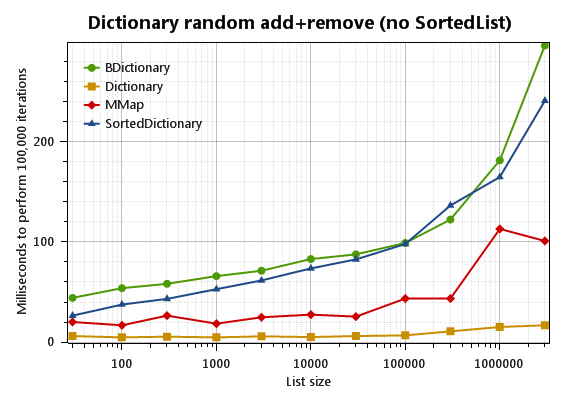
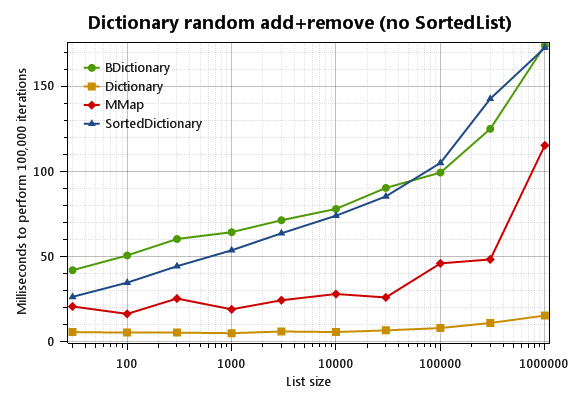
Edited recent articles

diff --git a/collections/alists-part3.md b/collections/alists-part3.md
@@ -46,7 +46,7 @@ _totalCount = 1000
 
 From the outside it appears to be a list of 1000 items, but in reality there are only three.
 
-This kind of list may resemble a `SortedDictionary<int,T>` but there is a big difference: you can _insert and remove_ ranges of indexes, which efficiently "shifts" the indexes of all items above the affected index. For example, if I add one million real items to a `SparseAList<T>`, I can do `list.InsertSpace(0, 1000)` and this will increase the index of all existing items by 1000 (in O(log N) time).
+This kind of list may resemble a `SortedDictionary<int,T>` but there is a big difference: you can _insert and remove_ ranges of indexes, which efficiently "shifts" the indexes of all items above the affected index. For example, if I add one million real items to a `SparseAList<T>`, I can do `list.InsertSpace(0, 1000)` and this will increase the index of all one million items by 1000 (in O(log N) time).
 
 `SparseAList<T>` implements my `ISparseListSource<T>` and `ISparseList<T>` interfaces. Compared to a normal list, a sparse list offers the following additional methods:
 
@@ -160,7 +160,7 @@ This kind of list may resemble a `SortedDictionary<int,T>` but there is a big di
 
 ## `SparseAList<T>` for syntax highlighting
 
-The first version of my syntax highlighter simply kept track of the lexer state at the beginning of each line. This basically worked, but there was a challenge or two [I forgot the details because it's been many months since I worked on it], and it didn't allow me to efficiently add "higher-level" syntax highlighting. I wanted to offer syntax highlighting not just of tokens, but also of higher-level elements (using C# as an example, imagine highlighting data types and method names).
+The first version of my syntax highlighter for [LES](https://github.com/qwertie/LoycCore/wiki/Loyc-Expression-Syntax) simply kept track of the lexer state at the beginning of each line. This basically worked, but there was a challenge or two [I forgot the details because it's been many months since I worked on it], and it didn't allow me to efficiently add "higher-level" syntax highlighting. I wanted to offer syntax highlighting not just of tokens, but also of higher-level elements (using C# as an example, imagine highlighting data types and method names).
 
 The simplest way to do this is to parse the entire file, which is slow. I did not (and don't) know how to achieve incremental parsing, but I felt that I could at least achieve incremental _lexing_, which would speed up the parsing process because lexical analysis tends to account for around half of total parsing time. My idea is that I would build a list of all non-space tokens in the file and the location where each token starts. Then, when the user types stuff, I would re-lex a small region starting before the edit location, in real time, an this would be a very fast operation (most of the time, anyway). The parser would still have to reprocess the entire file, but it would run on a timer, waiting at least one second or so between each parse. This parser would run on a background thread and could operate on a frozen version of the token list in case it changes on the other thread (remember, `AList` supports fast cloning).
 
@@ -195,7 +195,7 @@ But, this is really a story for another article. Remind me to write one...
 
 ## Benchmarks
 
-I finally got around to doing a few simple benchmarks on a new workstation PC. Fair warning, I only tested `AList` and `BDictionary`, not any of the others like `SparseAList` or `BMultiMap`.
+I finally got around to doing a few simple `AList` benchmarks on a new workstation PC. Fair warning, I only tested `AList` and `BDictionary`, not any of the others like `SparseAList` or `BMultiMap`.
 
 The first test scenario is this:
 
@@ -209,7 +209,7 @@ First the good news: `AList<T>` has dramatically better performance than `List<T
 ![Results](bm-insert-at-random-indexes.png)
 ![Results](bm-remove-at-random-indexes.png)
 
-What's `DList<T>`? It's a direct competitor to the standard `List<T>`, and a simpler alternative to `AList<T>`. I wrote a [separate article about the DList](http://core.loyc.net/collections/dlist.html).
+What's `DList<T>`? It's a direct competitor to the standard `List<T>`, and a simpler alternative to `AList<T>`. I wrote a [separate article about the DList](dlist.html).
 
 The raw timings for a million-item list are
 
@@ -231,7 +231,7 @@ In fact, for small lists (under 100 items), `List<T>` is about twice as fast.
 
 ![Add-at-end benchmark](bm-insert-at-end.png)
 
-This scenario is to start with a `IList<long>` of a certain size and just add 100,000 more items. `AList<T>` just sucks at that, at least compared to `List<T>` and `DList<T>`, both of which usually complete the task in one millisecond or less (why the sudden "slowness" of `DList<T>` at 3 million items? Probably at some point during the 100,000 iterations, the `DList` had to enlarge its internal array of 3 million items.)
+This scenario is to start with a `IList<long>` of a certain size and just add 100,000 more items. `AList<T>` just sucks at that, at least compared to `List<T>` and `DList<T>`, both of which usually complete the task in one millisecond or less.
 
 I also the tested the speed of
 
@@ -248,12 +248,12 @@ I also the tested the speed of
 		for (int c = 0; c < Cycles; c++)
 			avg = list.Average(); // LINQ scans the collection with `IEnumerator`
 
-Here, `Cycles` is chosen so that `Cycles * list.Count = 10_000_000` (exception: `Cycles = 3` at 3 million items). 
+Here, `Cycles` is chosen so that `Cycles * list.Count = 10_000_000`.
 
 `AList<T>` is a more complex data structure, so it is traversed more slowly than `List<T>` and `DList<T>`.
 
 ![Scan results](bm-scan-by-IEnumerator.png)
-![Scan results](bm-scan-by-[index].png)
+![Scan results](bm-scan-by-index.png)
 
 Notice that the `IEnumerator` of `AList` has a constant speed while the `[indexer]` of `AList` gets slower for large lists. That's because the indexer requires O(log N) time while `IEnumerator<T>.MoveNext` is an O(1) operation. However, the `AList` enumerator tends to be slower for short lists, maybe because the enumerator needs more time to initialize (except for very short lists that contain only a leaf node, the enumerator allocates a small array--a traversal stack--when enumeration starts.)
 
@@ -263,7 +263,14 @@ I noticed that `DList<T>` wasn't getting as much of a performance boost through 
 
 ### Dictionary benchmarks
 
-I did a single simple benchmark for five kinds of `<long, int>` dictionaries (`Dictionary`, `MMap`, `BDictionary`, `SortedDictionary` and `SortedList`). The results are clear:
+I did a single simple benchmark for five kinds of `<long, int>` dictionaries (`Dictionary`, `MMap`, `BDictionary`, `SortedDictionary` and `SortedList`). The test setup was:
+
+1. Create a dictionary with a sequence of integers starting at zero, where each new integer equals the last integer plus a random number between 50 and 150. Record the largest integer.
+2. Start timer.
+3. 100,000 times, pick an integer at random between 0 and the largest integer. Insert this integer into the list, and then (if the list size increased) remove it again.
+4. Measure time.
+
+The results are clear:
 
 ![Results](bm-dictionary-random-add+remove.png)
 

diff --git a/collections/internal-list.md b/collections/internal-list.md
@@ -32,12 +32,12 @@ So `List<T>` requires six additional words of memory compared to an array (I mea
 public T this[int index]
 {
     get {
-        if (index >= _size)
+        if ((uint)index >= (uint)_size)
             ThrowHelper.ThrowArgumentOutOfRangeException();
         return _items[index];
     }
     set {
-        if (index >= _size)
+        if ((uint)index >= (uint)_size)
             ThrowHelper.ThrowArgumentOutOfRangeException();
         _items[index] = value;
         _version++;
@@ -45,7 +45,7 @@ public T this[int index]
 }
 ~~~
 
-Note that the `_items[index]` operation implicitly contains a range check: the CLR performs a check equivalent to `(uint)index < (uint)_items.Length` before it actually reads from an array or writes to it. So there are actually two range checks here. The JIT usually does not know that `_size < _items.Length` (and besides, the `index >= _size` check does not verify that `index >= 0`) so it cannot remove the second check based on the result of the first check.
+Note that the `_items[index]` operation implicitly contains a range check: the CLR performs a check equivalent to `(uint)index < (uint)_items.Length` before it actually reads from an array or writes to it. So there are actually two range checks here. The JIT usually does not know that `_size < _items.Length` so it cannot remove the second check based on the result of the first check.
 
 ### The downside to `T[]`
 
@@ -75,9 +75,11 @@ and then you might write a bunch of code to do the things that `List<T>` already
         Array.Copy(_array, a, _count);
     }
 
-Of course, this road leads to madness. Luckily, there's no need to ever write code like this: just use `InternalList<T>` instead!
+Of course, this road leads to madness. Luckily, you never need to write code like this: just use `InternalList<T>` instead!
 
 ## Introducing InternalList
+
+`InternalList<T>` is a drop-in substitute for `List<T>` defined like this:
 
     [Serializable]
     public struct InternalList<T> : IListAndListSource<T>, 
@@ -99,6 +101,7 @@ Of course, this road leads to madness. Luckily, there's no need to ever write co
         public void Resize(int newSize, bool allowReduceCapacity = true) {...}
         public void Add(T item) {...}
         ...
+        ...
     }
 
 To eliminate the extra memory required by `List<T>`, InternalList is a `struct` rather a `class`; and for maximum performance, it asserts rather than throwing an exception when an incorrect array index is used, so that Release builds (where `Debug.Assert` disappears) run as fast as possible.
@@ -110,17 +113,17 @@ To eliminate the extra memory required by `List<T>`, InternalList is a `struct` 
     // error CS1612: Cannot modify the return value of 'List<Point>.this[int]' because it is not a variable
     pts[0].X = 5;
 
-But if `pts` is an `InternalList` then you can write `pts.InternalArray[0].X = 5;`
+But if `pts` is an `InternalList` then you can write `pts.InternalArray[0].X = 5;`.
 
 `InternalList<T>` has other things that `List<T>` doesn't, such as a `Resize()` method (and an equivalent setter for `Count`), and a handy `Last` property to get or set the last item.
 
 But it should be understood that `InternalList` is only meant for rare cases where you need better performance than `List<T>`. It does have major disadvantages:
 
-1. You must not write `new InternalList<T>()` because C# does not support default constructors and `InternalList<T>` requires non-null initialization; methods such as `Add()`, `Insert()` and `Resize()` assume `_array` is not null. The correct initialization is `InternalList<T> list = InternalList<T>.Empty;`
+1. You must not write `new InternalList<T>()` because C# does not support `struct` default constructors and `InternalList<T>` requires non-null initialization; methods such as `Add()`, `Insert()` and `Resize()` assume `_array` is not null. The correct initialization is `InternalList<T> list = InternalList<T>.Empty;`
 
 2. Passing this structure by value is dangerous because changes to a copy of the structure may or may not be reflected in the original list. In particular the `_count` of the original list won't change but the contents of `_array` _may_ change. It's best not to pass it around at all, but if you must pass it, pass it by reference. This also implies that an `InternalList<T>` should not be exposed by any `public` API, and storing `InternalList<T>` inside another collection (e.g. `Dictionary<object, InternalList<T>>` can be done but must be done carefully to avoid code that _compiles_ but doesn't work as intended.
 
-Again, the fundamental problem is that when you pass `InternalList` by value, a copy of the `_count` and `_array` variables is made. Changes to those variables do not affect the other copies, but changes to the _elements_ of `_array` _do_ affect other copies. If you want to return an internal list from a public API you can cast it to `IList<T>` or `IReadOnlyList<T>`, but be aware that future changes made to the `InternalList` by your code may not be reflected properly in client code, and vice versa. 
+Again, the fundamental problem is that when you pass `InternalList` by value, a copy of the `_count` and `_array` variables is made. Changes to those variables do not affect the other copies, but changes to the _elements_ of `_array` _do_ affect other copies (incidentally, this is similar to the mutation behavior of [slices in D](http://dlang.org/d-array-article.html)). If you want to return an internal list from a public API you can cast it to `IList<T>` or `IReadOnlyList<T>`, but be aware that future changes made to the `InternalList` by your code may not be seen properly by clients using the `IList<T>`, and vice versa.
 
 Finally, alongside `InternalList<T>`, there is a `static class InternalList` that has some static methods (`CopyToNewArray`, `Insert`, `RemoveAt`, `Move` to help manage raw arrays. Most methods of `InternalList<T>` simply call methods of `InternalList`.
 

diff --git a/collections/dlist.md b/collections/dlist.md
@@ -5,7 +5,7 @@ layout: article
 
 ## Introduction
 
-Creating the `AList<T>` data structures for my [list trifecta series](alists-part1.html) must have taken hundreds of hours. The `DList<T>` is a vastly simpler beast, but may be able to boost your insert/remove speed a lot without adversely affecting the performance of other operations such as the indexer.
+Creating the `AList<T>` data structures for my [list trifecta series](alists-part1.html) must have taken hundreds of hours. The `DList<T>` is a vastly simpler beast, but in certain cases will boost your insert/remove speed a lot, without adversely affecting the performance of other operations such as the indexer.
 
 `DList<T>` is a "circular buffer". A circular buffer is a region of memory organized so that you can efficiently add or remove items at both ends, and is commonly used to implement queues (it's called a "circular queue").
 
@@ -76,10 +76,19 @@ Leaf nodes of `AList`s contain a single `InternalDList<T>` structure. `DList<T>`
 
 If you don't get what `InternalDList` is for, please read [my article on `InternalList`](http://core.loyc.net/collections/internal-list.html). `InternalList<T>` is the same concept, minus the "circular queue" part.
 
+## Benchmarks
 
+I did a series of benchmarks at the end of my List Trifecta series of articles, and I threw in `DList<T>` for the ride.
 
+Here's one of the benchmark results:
 
+![Results](bm-insert-at-random-indexes-.png)
+![Results](bm-insert-at-random-indexes.png)
 
+What this shows is that for lists with more than 1000 items, `DList<T>` does random insertions about twice as fast as `List<T>`. For more benchmark results, see [List Trifecta part 3](alists-part3.html).
 
+## Download!
 
+I am happy to announce a new NuGet package called ["LoycCore"](https://www.nuget.org/packages/LoycCore/) which includes `DList`, `AList`, other data structures, and various other handy stuff, including most of the stuff I have published articles about in the past. I also created a [new web site for Loyc Core](http://core.loyc.net).
 
+`DList<T>` is part of `Loyc.Essentials.dll`. The [source code](https://github.com/qwertie/LoycCore/tree/master/Loyc.Essentials/Collections/Implementations) lives on GitHub. In principle `DList<T>` and `InternalDList<T>` can be extracted from this assembly, but it would take a little work, as they do depend on interfaces and other code in Loyc.Essentials.dll.

diff --git a/index.md b/index.md
@@ -18,7 +18,7 @@ The libraries are:
 
   [1]: http://www.codeproject.com/Articles/568095/The-List-Trifecta-Part
   [2]: http://www.codeproject.com/Articles/26171/VList-data-structures-in-C
-  [3]: https://github.com/qwertie/Loyc/wiki/Loyc-Expression-Syntax
+  [3]: https://github.com/qwertie/LoycCore/wiki/Loyc-Expression-Syntax
 
 They are available as a [NuGet package](https://www.nuget.org/packages/LoycCore/).
 
